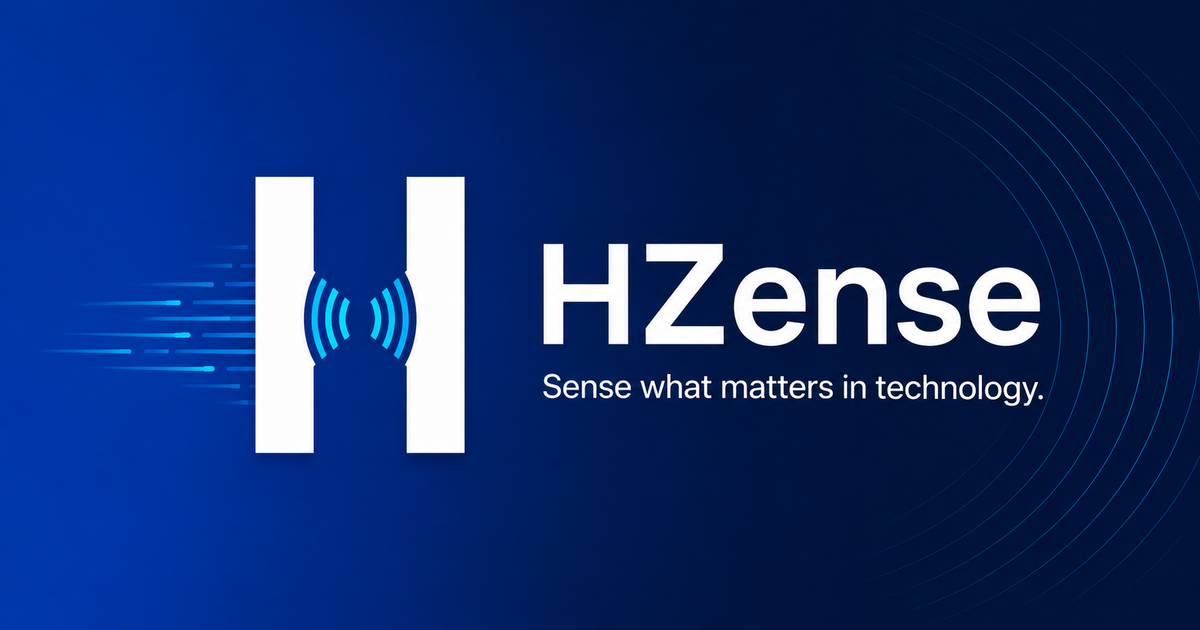
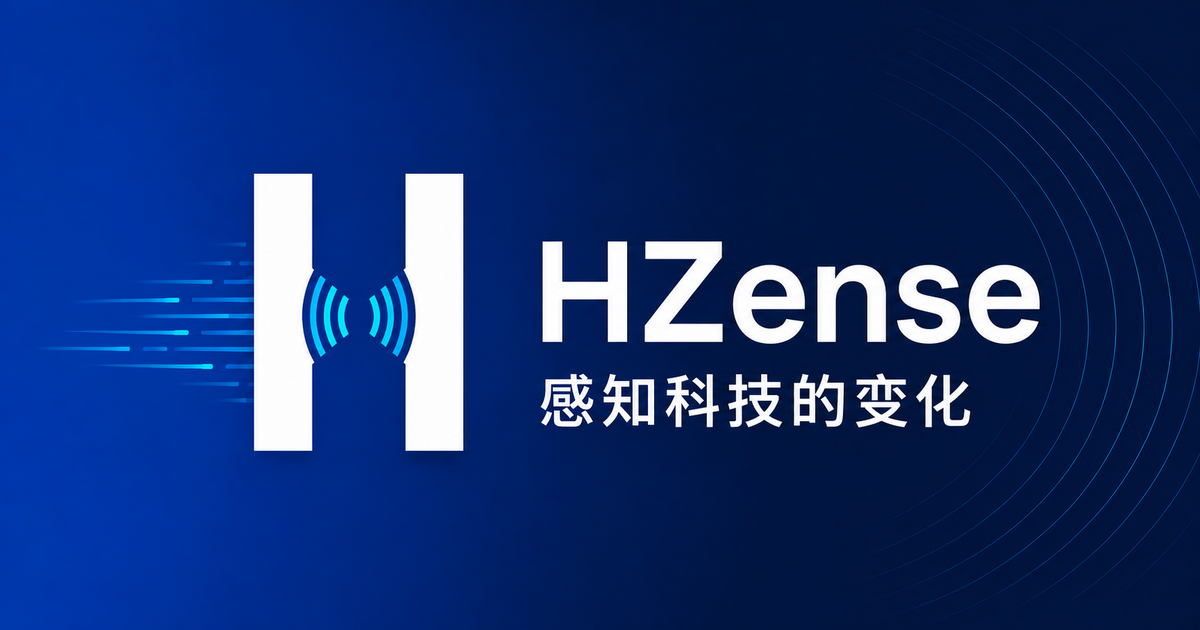
Update HZense slogan

diff --git a/apps/web/app/layout.tsx b/apps/web/app/layout.tsx
@@ -11,14 +11,14 @@ export const metadata: Metadata = {
     "HZense 将分散的科技信号转化为结构化、可追溯的科技情报。",
   openGraph: {
     title: "HZense — 科技情报",
-    description: "感知科技真正重要的变化。",
+    description: "感知科技的变化",
     type: "website",
     images: [{ url: "/og.png", width: 1200, height: 630, alt: "HZense 科技情报" }],
   },
   twitter: {
     card: "summary_large_image",
     title: "HZense — 科技情报",
-    description: "感知科技真正重要的变化。",
+    description: "感知科技的变化",
     images: ["/og.png"],
   },
   icons: {

diff --git a/apps/web/app/page.tsx b/apps/web/app/page.tsx
@@ -12,7 +12,7 @@ export default function Home() {
               <span className="live-dot" /> 持续提炼的科技情报
             </div>
             <h1>
-              感知科技<span>真正重要</span>的变化。
+              感知科技的<span>变化</span>
             </h1>
             <p className="hero-intro">
               HZense 将分散的信号转化为结构化情报——帮助你看清发生了什么、

diff --git a/apps/web/components/site-shell.tsx b/apps/web/components/site-shell.tsx
@@ -29,7 +29,7 @@ export function SiteShell({ children }: { children: ReactNode }) {
         <div className="section-shell footer-inner">
           <div>
             <strong>HZense</strong>
-            <span>感知科技真正重要的变化。</span>
+            <span>感知科技的变化</span>
           </div>
           <p>结构化信号，关联证据，更清晰的决策。</p>
           <span>© 2026 HZense</span>
